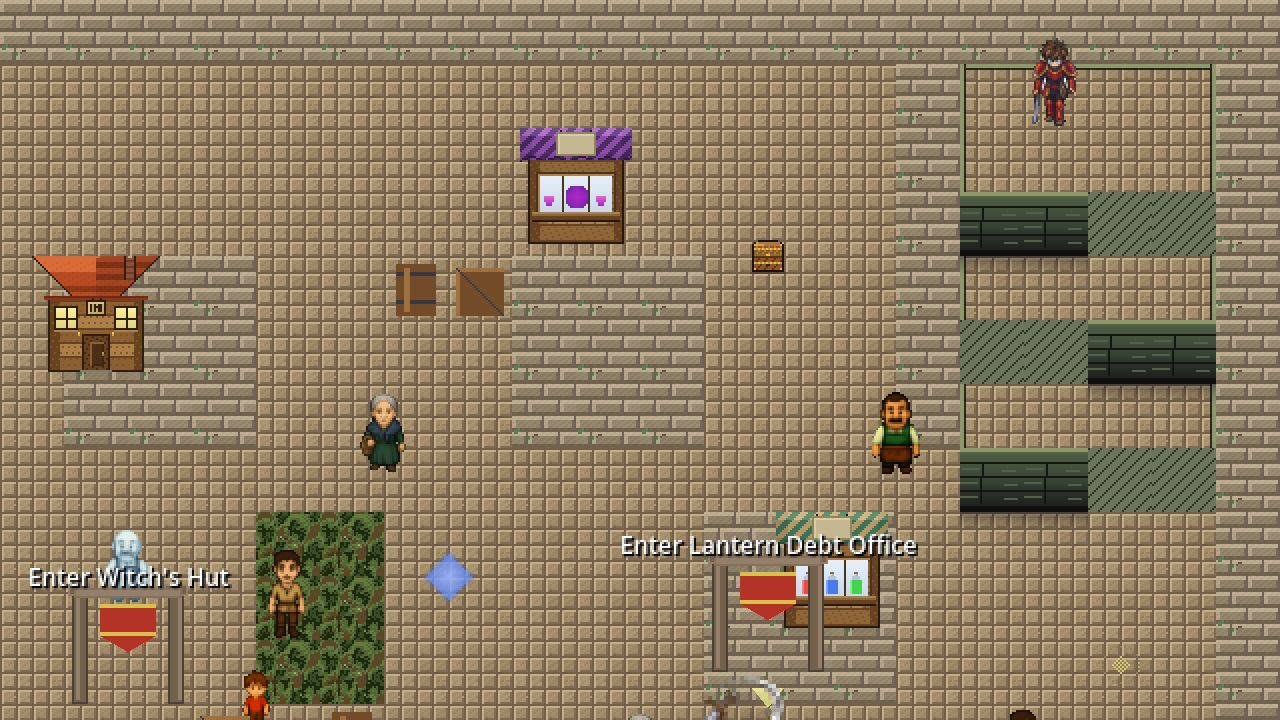
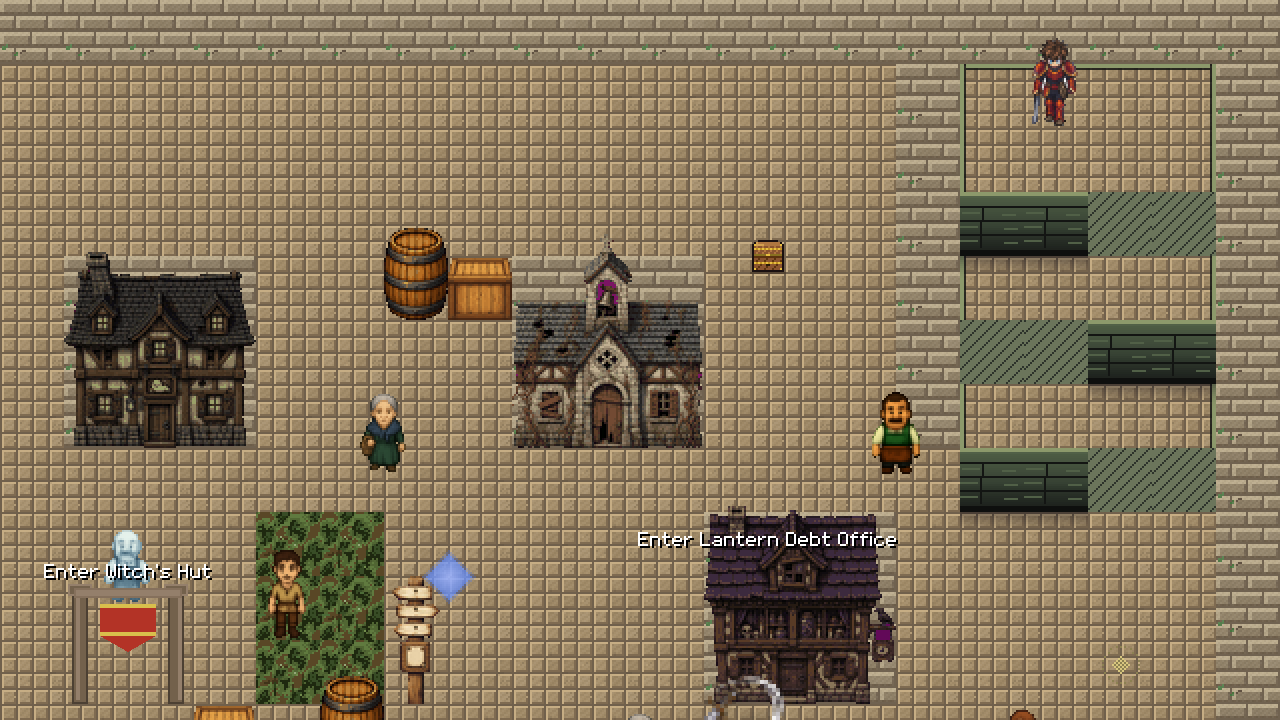
store: re-shoot ten frames at v3.33.807-alpha, the pixel face
.807 is the first release drawn in the pixel UI face, and the villages have moved on
since their frames were taken. Ten frames replaced: battle, battle_storm, shop_interior,
grimhollow_spiral, grimhollow_village, ironhaven_village, sandrift_village,
frosthold_village, eldertree_village, title_screen. Each is run A of the .807 publish's
own store recheck, compared by eye against the shipped frame.

Kept: inn (pixel-identical), tavern and harmonia (animation phase only). Held: the four
dungeon frames, because the stairs markers draw as a stepped block that reads as a "T"
in the pixel face, and the three field_elite frames, which still shoot without the tell.

CAPTIONS.md and MANIFEST.txt updated to match.

Claude-Session: https://claude.ai/code/session_01W2qjrDSfZUL4M11aPpJvXX

diff --git a/itch-assets/CAPTIONS.md b/itch-assets/CAPTIONS.md
@@ -1,22 +1,48 @@
 # Store screenshot captions — Cowardly Irregular
 
-**Current vintage of every shipped frame (2026-11-14, read from git, not remembered):**
+**Current vintage of every shipped frame (2026-11-19, read from git, not remembered):**
 
 | captured at | shots | section |
 |---|---|---|
-| `v3.33.750-alpha` | `battle_storm` · `field_elite_medieval` · `field_elite_prompt_medieval` · `field_elite_steampunk` · `grimhollow_spiral` · `infernal_grotto_f3` · `warren_lever_portals` · `warren_wrap_field` | commit `1df31b2fb` |
+| `v3.33.750-alpha` | `field_elite_medieval` · `field_elite_prompt_medieval` · `field_elite_steampunk` · `infernal_grotto_f3` · `warren_lever_portals` · `warren_wrap_field` (`battle_storm` · `grimhollow_spiral` re-shot at `.807`) | commit `1df31b2fb` |
 | `v3.33.752-alpha` | (none left: both re-shot at `.767`) | commits `438ff3e68`, `21f990b47` |
 | `v3.33.767-alpha` | (none left: `battle` re-shot at `.774`) | "re-shot at `v3.33.767-alpha`" |
-| `v3.33.770-alpha` | `ironhaven_village` · `eldertree_village` · `tavern_interior` · `whispering_cave` (`inn_interior` · `shop_interior` re-shot at `.802`) | "re-shot at `v3.33.770-alpha`, door labels hidden" |
-| `v3.33.773-alpha` | `harmonia_village` · `frosthold_village` · `grimhollow_village` | "re-shot at `v3.33.773-alpha`, villagers on whole ground" |
-| `v3.33.774-alpha` | `sandrift_village` · `title_screen` (`battle` re-shot at `.788`) | "re-shot at `v3.33.774-alpha`, a name said once" |
-| `v3.33.802-alpha` | `inn_interior` · `shop_interior` | "re-shot at `v3.33.802-alpha`, the rooms are drawn" |
-| `v3.33.788-alpha` | `battle` | "re-shot at `v3.33.788-alpha`, the speed readout keeps its width" |
+| `v3.33.770-alpha` | `tavern_interior` · `whispering_cave` (`inn_interior` re-shot at `.802`; `ironhaven_village` · `eldertree_village` · `shop_interior` at `.807`) | "re-shot at `v3.33.770-alpha`, door labels hidden" |
+| `v3.33.773-alpha` | `harmonia_village` (`frosthold_village` · `grimhollow_village` re-shot at `.807`) | "re-shot at `v3.33.773-alpha`, villagers on whole ground" |
+| `v3.33.774-alpha` | (none left: `sandrift_village` · `title_screen` re-shot at `.807`) | "re-shot at `v3.33.774-alpha`, a name said once" |
+| `v3.33.802-alpha` | `inn_interior` (`shop_interior` re-shot at `.807`) | "re-shot at `v3.33.802-alpha`, the rooms are drawn" |
+| `v3.33.788-alpha` | (none left: `battle` re-shot at `.807`) | "re-shot at `v3.33.788-alpha`, the speed readout keeps its width" |
+| `v3.33.807-alpha` | `battle` · `battle_storm` · `eldertree_village` · `frosthold_village` · `grimhollow_spiral` · `grimhollow_village` · `ironhaven_village` · `sandrift_village` · `shop_interior` · `title_screen` | "re-shot at `v3.33.807-alpha`, the pixel face" |
 
 Re-derive it rather than trusting this table: `git log -1 --format=%h -- itch-assets/screenshots/<shot>.png`
 names the commit, and that commit's message names the tag it was shot from. Which of them have gone
 stale since: `tools/store_shot_staleness.py --from <capture tag> --to <store tag>` (a candidate list,
 never a verdict; decide in pixels with `--compare`).
+
+**2026-11-19: re-shot at `v3.33.807-alpha`, the pixel face.** `.807` is the first release drawn in the pixel UI
+face, and the villages have changed since their frames were taken. Ten frames replaced, each run A of the `.807`
+publish's own store recheck, each looked at beside the shipped frame. Share of pixels moved vs the shipped frame, and
+run A vs run B noise:
+
+```
+battle              8.40%   0.07%   the pixel face on the turn strip, panels and menu; the enemy stands 12 px further in
+battle_storm       26.87%   0.53%   same, and the party at starting levels (the .750 frame showed a maxed party)
+shop_interior      61.47%   0.00%   the camera frames the keeper on entry
+grimhollow_spiral  12.97%   0.00%   a new building and signpost, door labels in the pixel face
+ironhaven_village   1.42%   0.00%   the hay cart is a mine cart
+sandrift_village    0.75%   0.00%   one 256x256 block near the pool (villager or prop; not named)
+grimhollow_village  0.46%   0.00%   a signpost; a villager gone
+frosthold_village   0.26%   0.00%   a villager swap at the left edge
+eldertree_village   0.23%   0.00%   "Elder Vesper" in the pixel face
+title_screen        0.04%   0.00%   the version digit
+```
+
+**Kept, and why.** `inn_interior` is pixel-identical. `tavern_interior` (flame phase) and `harmonia_village` (pond
+phase) differ only by animation. `whispering_cave`, `infernal_grotto_f3`, `warren_lever_portals` and
+`warren_wrap_field` are HELD: at `.807` the stairs markers (`▲`/`▼`) draw in the pixel face as a stepped block that
+reads as a "T", not an arrow. The frames are faithful to the build, but the store should not show it; re-shoot when
+the glyph is redrawn. The three `field_elite_*` frames are HELD until the elite is aimed at the seen player
+(`67b8ab1f5`, not in `.807`): they still shoot without the purple tell.
 
 **2026-11-14: re-shot at `v3.33.802-alpha`, the rooms are drawn.** Since `.795` the inn and the item shop are drawn
 rooms (InteriorArt pieces: the inn's long table, armchairs and rug; the shop's shelves, counter, barrels and sacks) and
